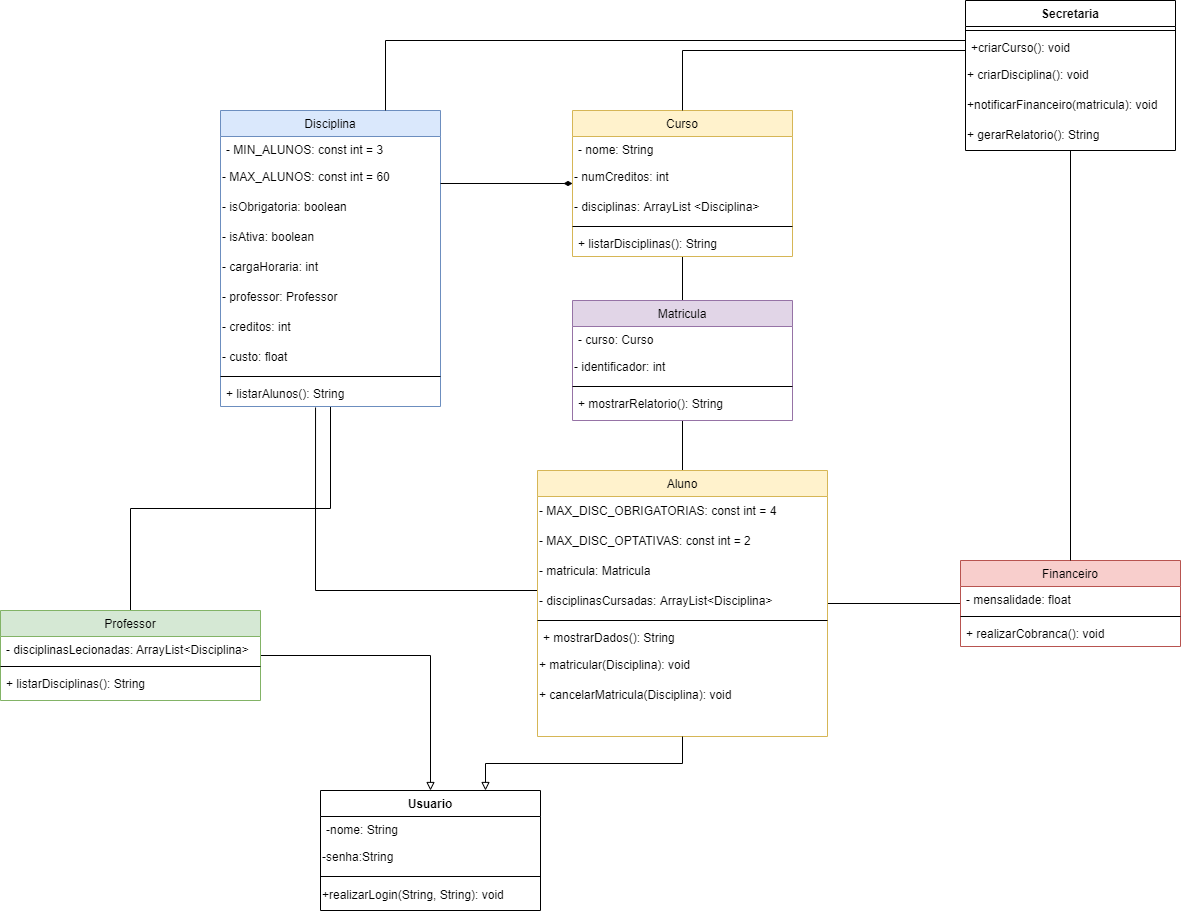
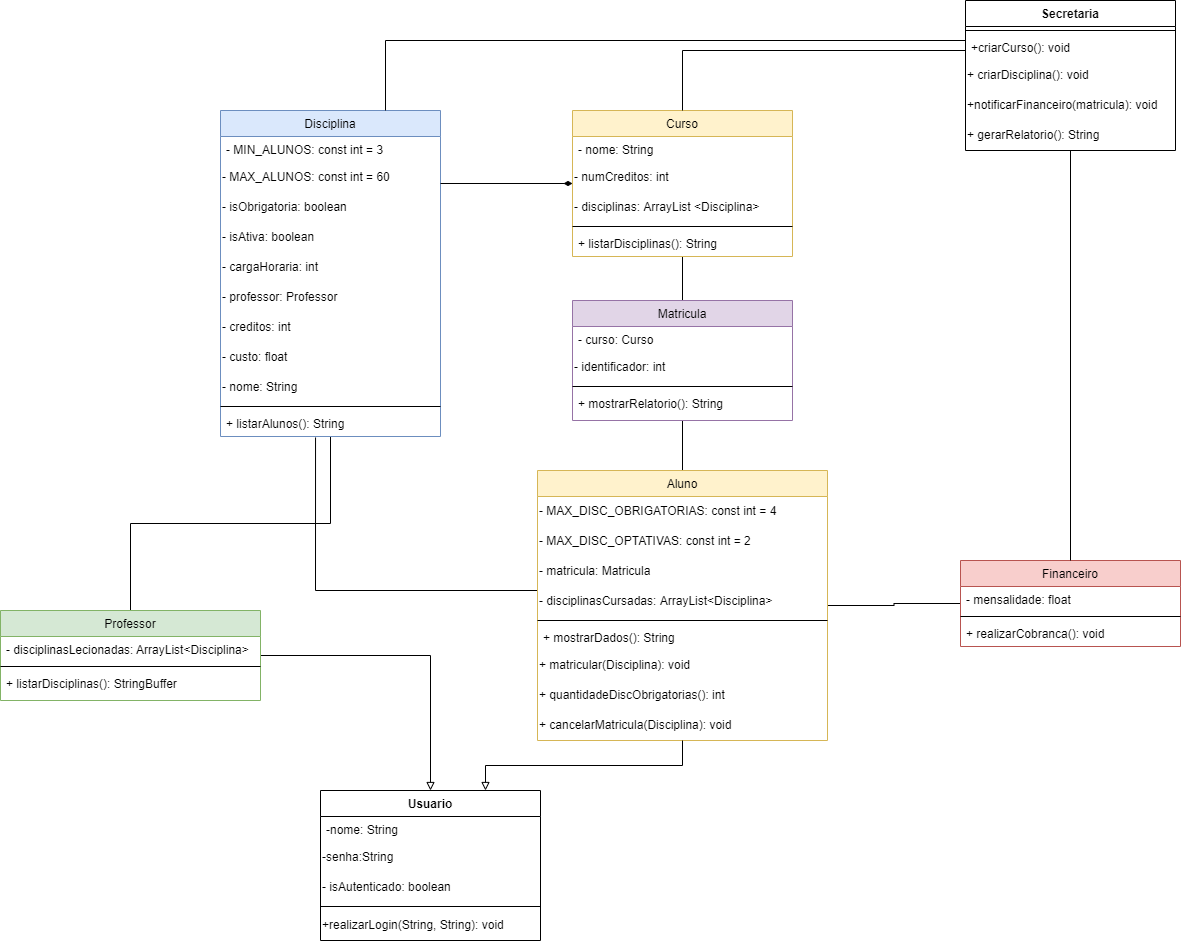
Usuario added // Professor, Usuario
- UML atualizada
- Classe usuário criada
- Código para professor, aluno e usuário atualizados

diff --git a/lab01/code/Aluno.java b/lab01/code/Aluno.java
@@ -2,31 +2,75 @@ package lab01.code;
 
 import java.util.ArrayList;
 
-public class Aluno {
+public class Aluno extends Usuario {
 
     private static final int MAX_DISC_OBRIGATORIAS = 4;
     private static final int MAX_DISC_OPTATIVAS = 2;
-    private String nome;
     private Matricula matricula;
     private ArrayList<Disciplina> disciplinasCursadas;
 
-    public Aluno(){
-        
+    public Aluno(String nome, String senha) {
+        super(nome, senha);
     }
 
+    // Getters
+
+    // Setters
+
     // Mostra os dados do aluno
-    private String mostrarDados(){
-        return "";
+    public String mostrarDados(){
+        StringBuffer sb = new StringBuffer();
+
+        for (int i = 0; i < disciplinasCursadas.size(); i++) {
+            sb.append(" " + disciplinasCursadas.get(i).getNome());
+        }
+
+
+        return "Nome: " + getNome() + " || " + "Disciplinas cursadas: " + sb;
     }
 
     // Matricula o aluno em determinada disciplina
-    private void matricular(Disciplina disciplina){
+    public void matricular(Disciplina disciplina) throws AutentificacaoException {
 
+        int numDiscOptativas = disciplinasCursadas.size() - quantidadeDiscObrigatorias();
+
+        if (isAutenticado()) {
+
+            if (disciplina.isObrigatoria() && quantidadeDiscObrigatorias() < MAX_DISC_OBRIGATORIAS) {
+                disciplinasCursadas.add(disciplina);
+
+            } else if (disciplina.isObrigatoria() == false && numDiscOptativas < MAX_DISC_OPTATIVAS) {
+                disciplinasCursadas.add(disciplina);
+            }
+        }
+
+        else {
+            throw new AutentificacaoException();
+        }
+
+    }
+
+    // Checa o número de disciplinas obrigatórias do aluno
+
+    public int quantidadeDiscObrigatorias() {
+        return (int) disciplinasCursadas.stream()
+                .filter(disc -> disc.isObrigatoria())
+                .count();
     }
 
     // Cancela a matricula do aluno em determinada disciplina
-    private void cancelarMatricula(Disciplina disciplina){
+    public void cancelarMatricula(Disciplina disciplina) throws AutentificacaoException {
+
+        if (isAutenticado()) {
+
+            if (disciplinasCursadas.contains(disciplina)) {
+                disciplinasCursadas.remove(disciplina);
+            }
+
+        } else {
+            throw new AutentificacaoException();
+        }
 
     }
-    
+
 }

diff --git a/lab01/code/Professor.java b/lab01/code/Professor.java
@@ -2,18 +2,31 @@ package lab01.code;
 
 import java.util.ArrayList;
 
-public class Professor{
+public class Professor extends Usuario {
 
-    private String nome;
     private ArrayList<Disciplina> disciplinasLecionadas;
 
-    public Professor(){
-
+    public Professor(String nome, String senha) {
+        super(nome, senha);
     }
 
-    // Lista as disciplinas lecionadas pelo professor
-    public String listarDisciplinas(){
-        return "";
+    // Retorna todas as disciplinas lecionadas pelo professor
+    public StringBuffer listarDisciplinas() throws AutentificacaoException {
+        
+        StringBuffer sb = new StringBuffer();
+
+        if (isAutenticado()) {
+
+            for (int i = 0; i < disciplinasLecionadas.size(); i++) {
+                sb.append(disciplinasLecionadas.get(i).getNome());
+            }
+        }
+        else {
+            throw new AutentificacaoException();
+        }
+
+        return sb;
+
     }
 
 }

diff --git a/lab01/code/Usuario.java b/lab01/code/Usuario.java
@@ -1,0 +1,42 @@
+package lab01.code;
+
+public class Usuario {
+    private String nome;
+    private String senha;
+    private boolean isAutenticado = false;
+
+    public Usuario(String nome, String senha) {
+        this.nome = nome;
+        this.senha = senha;
+    }
+
+    // Getters
+
+    public String getNome() {
+        return nome;
+    }
+
+    public boolean isAutenticado() {
+        return isAutenticado;
+    }
+
+    // Setters
+
+    public void setAutenticado(boolean isAutenticado) {
+        this.isAutenticado = isAutenticado;
+    }
+
+    // Realizar login no sistema
+    public void realizarLogin(String nome, String senha) throws AutentificacaoException {
+        if (isAutenticado() == false) {
+            if (getNome().equals(nome) && this.senha.equals(senha)) {
+                setAutenticado(true);
+            }
+        }
+        else {
+            throw new AutentificacaoException();
+        }
+
+    }
+
+}

diff --git a/lab01/code/Disciplina.java b/lab01/code/Disciplina.java
@@ -4,6 +4,7 @@ public class Disciplina {
 
     private static final int MIN_ALUNOS = 3;
     private static final int MAX_ALUNOS = 60;
+    private String nome;
     private boolean isObrigatoria;
     private boolean isAtiva;
     private int cargaHoraria;
@@ -14,6 +15,22 @@ public class Disciplina {
     public Disciplina(){
 
     }
+
+    // Getters
+
+    public String getNome() {
+        return nome;
+    }
+
+    public boolean isObrigatoria() {
+        return isObrigatoria;
+    }
+
+    public boolean isAtiva() {
+        return isAtiva;
+    }
+
+    // Setters
 
     // Lista todos os alunos matriculados na disciplina
     public String listarAlunos(){

diff --git a/lab01/code/AutentificacaoException.java b/lab01/code/AutentificacaoException.java
@@ -1,0 +1,9 @@
+package lab01.code;
+
+public class AutentificacaoException extends Exception {
+    
+    public AutentificacaoException(){
+        super("Erro no processo de autentificação. Por favor, verifique se você está logado");
+    }
+    
+}
